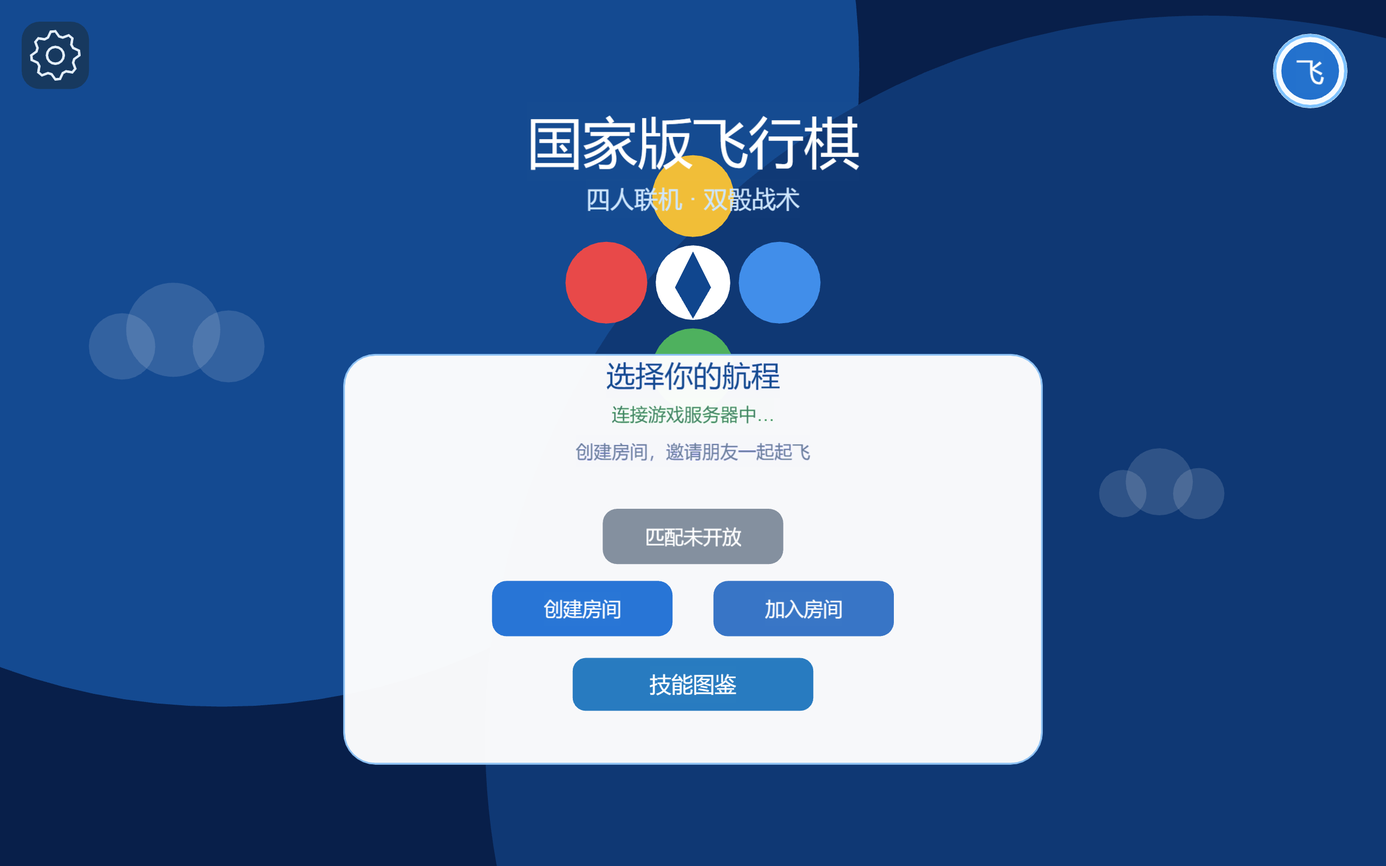
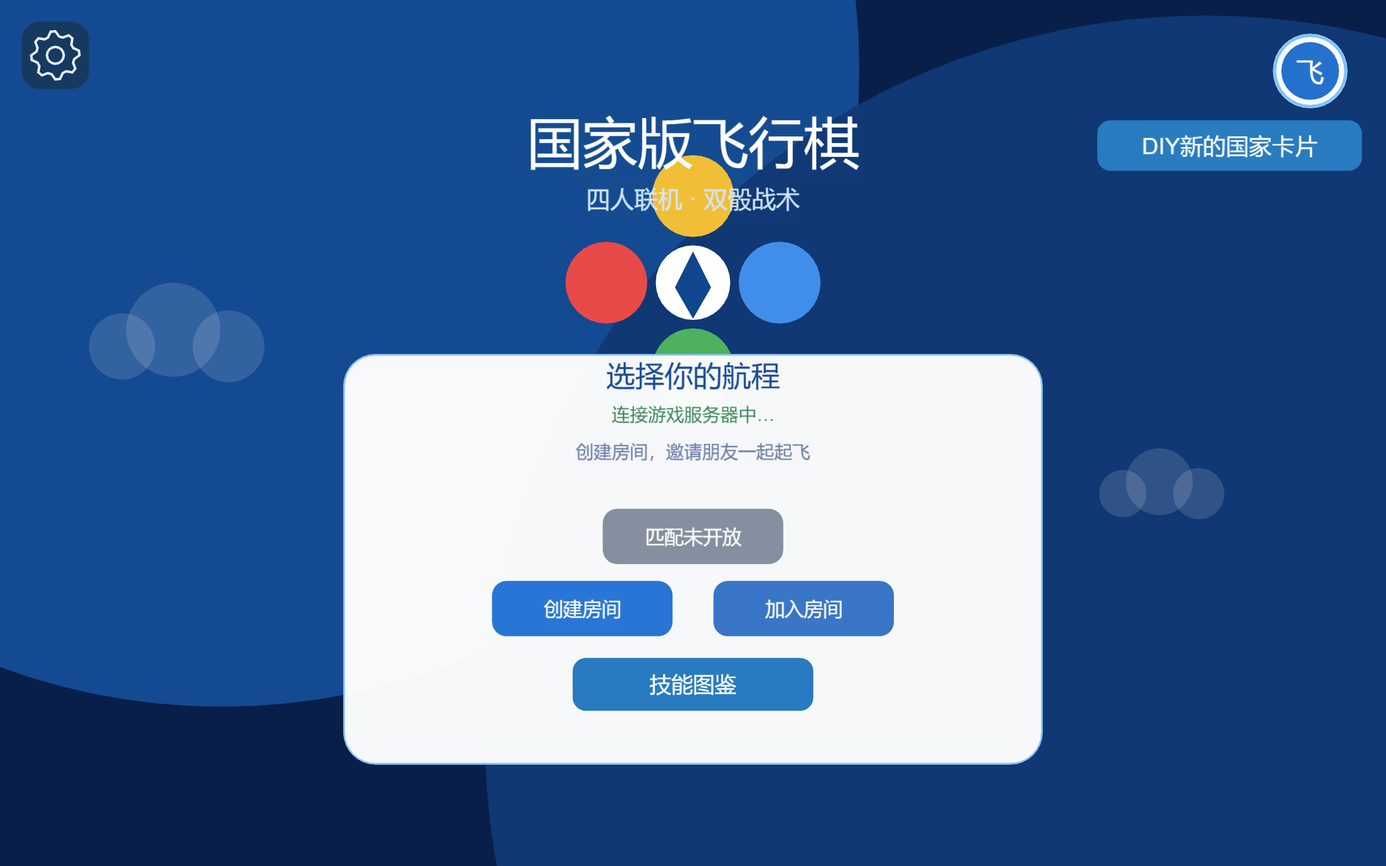
feat: add country skill designer and settings feedback submissions

Changed region(s): [[0.7812, 0.125, 1.0, 0.2188]]

diff --git a/assets/scripts/ui/SubmissionDialog.ts b/assets/scripts/ui/SubmissionDialog.ts
@@ -1,0 +1,185 @@
+import { BlockInputEvents, Button, Color, EditBox, Graphics, Label, Layers, Mask, Node, ScrollView, UITransform, sys, view } from 'cc';
+
+type Kind = 'COUNTRY' | 'FEEDBACK';
+interface Skill { name: string; type: string; trigger: string; description: string; cooldown: string; }
+const TYPES = [['NORMAL', '普通技能'], ['LIMITED', '限定技能'], ['COOLDOWN', 'CD 技能'], ['AWAKENING', '觉醒技能']];
+const blankSkill = (): Skill => ({ name: '', type: 'NORMAL', trigger: '', description: '', cooldown: '' });
+
+/** Cocos UI also works in the mini-game. Keep input nodes alive across close/rotation. */
+export class SubmissionDialog {
+  public readonly root: Node;
+  private readonly card: Node;
+  private readonly inputs = new Map<string, EditBox>();
+  private readonly countryGroup: Node;
+  private readonly feedbackGroup: Node;
+  private readonly notice: Label;
+  private readonly title: Label;
+  private readonly skillIndex: Label;
+  private readonly typeLabel: Label;
+  private readonly typeMenu: Node;
+  private readonly review: Node;
+  private readonly reviewText: Label;
+  private readonly reviewScroll: ScrollView;
+  private readonly sendButton: Button;
+  private readonly reviewStatus: Label;
+  private kind: Kind = 'COUNTRY';
+  private account = '';
+  private skills: Skill[] = [blankSkill()];
+  private index = 0;
+  private pending = false;
+  private sealed = false;
+  private submissionId = '';
+  private submittedDraft: Record<string, unknown> | null = null;
+  private timeout: ReturnType<typeof setTimeout> | undefined;
+
+  public constructor(parent: Node, private readonly send: (data: Record<string, unknown>) => void) {
+    this.root = this.node('SubmissionDialog', parent, 0, 0); this.root.addComponent(BlockInputEvents);
+    this.card = this.node('SubmissionCard', this.root, 640, 650); this.panel(this.card, 640, 650, '#eff5fc');
+    this.title = this.label('SubmissionTitle', this.card, 'DIY新的国家卡片', 0, 286, 510, 38, 28);
+    this.button('CloseSubmission', this.card, '×', 285, 290, 44, () => this.close());
+    this.countryGroup = this.node('CountryForm', this.card, 600, 450);
+    this.input('CountryName', this.countryGroup, '国家名称（必填，30 字以内）', 245, 44, 30);
+    this.input('CountryDescription', this.countryGroup, '国家介绍（可选，300 字以内）', 189, 52, 300, true);
+    this.skillIndex = this.label('SkillIndex', this.countryGroup, '', 0, 136, 170, 34, 21);
+    this.button('PreviousSkill', this.countryGroup, '上一项', -225, 136, 110, () => this.navigate(-1));
+    this.button('NextSkill', this.countryGroup, '下一项', -100, 136, 110, () => this.navigate(1));
+    this.button('AddSkill', this.countryGroup, '+ 技能', 100, 136, 110, () => { if (this.skills.length < 6) { this.save(); this.skills.push(blankSkill()); this.index = this.skills.length - 1; this.renderSkill(); } });
+    this.button('DeleteSkill', this.countryGroup, '删除', 225, 136, 110, () => { if (this.skills.length > 1) { this.skills.splice(this.index, 1); this.index = Math.min(this.index, this.skills.length - 1); this.renderSkill(); this.save(); } });
+    this.input('SkillName', this.countryGroup, '技能名称（必填，30 字以内）', 83, 44, 30);
+    const typeButton = this.button('SkillType', this.countryGroup, '', -170, 31, 220, () => { this.typeMenu.active = !this.typeMenu.active; this.typeMenu.setSiblingIndex(-1); });
+    this.typeLabel = typeButton.node.getComponentInChildren(Label)!;
+    this.label('TypeHint', this.countryGroup, '选择技能类型 ▾', 130, 31, 285, 36, 20).node.on(Node.EventType.TOUCH_END, () => { this.typeMenu.active = !this.typeMenu.active; this.typeMenu.setSiblingIndex(-1); });
+    this.input('SkillTrigger', this.countryGroup, '触发条件（可选，100 字以内）', -21, 44, 100);
+    this.input('SkillCooldown', this.countryGroup, 'CD 规则（例如：每 3 个正常回合一次）', -73, 44, 60);
+    this.input('SkillDescription', this.countryGroup, '技能效果（必填，600 字以内）', -158, 110, 600, true);
+    this.typeMenu = this.node('SkillTypeMenu', this.countryGroup, 230, 190); this.typeMenu.setPosition(-170, -82);
+    this.typeMenu.addComponent(BlockInputEvents); this.panel(this.typeMenu, 230, 190, '#dceafb');
+    TYPES.forEach(([type, name], i) => this.button(`Type-${type}`, this.typeMenu, name, 0, 68 - i * 45, 218, () => {
+      this.skills[this.index].type = type; this.typeMenu.active = false; this.updateType(); this.save();
+    })); this.typeMenu.active = false;
+    this.feedbackGroup = this.node('FeedbackForm', this.card, 600, 480);
+    this.label('FeedbackHint', this.feedbackGroup, '遇到了什么问题？也欢迎提出建议。', 0, 226, 550, 44, 22);
+    this.input('FeedbackContent', this.feedbackGroup, '请描述问题、操作步骤或改进建议（1–3000 字）', 20, 350, 3000, true);
+    this.notice = this.label('SubmissionNotice', this.card, '草稿自动保存在当前设备', 0, -239, 580, 38, 18);
+    this.button('PreviewSubmission', this.card, '预览并提交', 0, -285, 220, () => this.preview());
+    this.review = this.node('SubmissionReview', this.card, 640, 650); this.panel(this.review, 640, 650, '#eff5fc'); this.review.addComponent(BlockInputEvents);
+    this.label('ReviewTitle', this.review, '确认投稿内容', 0, 282, 540, 40, 28);
+    this.label('ReviewRecipient', this.review, '发送至 skillludoadapter@163.com · 附带登录账号', 0, 240, 590, 35, 18);
+    const viewport = this.node('ReviewViewport', this.review, 590, 390); viewport.setPosition(0, 20); viewport.addComponent(Mask);
+    const content = this.node('ReviewContent', viewport, 565, 390); content.getComponent(UITransform)!.setAnchorPoint(0.5, 1); content.setPosition(0, 195);
+    this.reviewText = this.label('ReviewText', content, '', 0, 0, 565, 390, 21);
+    this.reviewText.node.getComponent(UITransform)!.setAnchorPoint(0.5, 1);
+    this.reviewText.horizontalAlign = Label.HorizontalAlign.LEFT; this.reviewText.verticalAlign = Label.VerticalAlign.TOP; this.reviewText.overflow = Label.Overflow.RESIZE_HEIGHT;
+    this.reviewScroll = viewport.addComponent(ScrollView); this.reviewScroll.content = content; this.reviewScroll.horizontal = false;
+    this.reviewStatus = this.label('SubmissionResult', this.review, '', 0, -227, 580, 85, 18);
+    this.button('EditSubmission', this.review, '返回编辑', -160, -287, 160, () => { if (!this.pending) { this.review.active = false; } });
+    this.sendButton = this.button('SendSubmission', this.review, '提交', 40, -287, 150, () => this.submit());
+    this.button('CloseReview', this.review, '关闭', 230, -287, 100, () => this.close());
+    this.review.active = false; this.root.active = false;
+    view.on('canvas-resize', this.resize, this); view.on('design-resolution-changed', this.resize, this);
+  }
+  public open(kind: Kind, accountId: string): void {
+    if (!accountId.startsWith('u_')) return;
+    if (this.pending) { this.root.active = true; this.root.setSiblingIndex(-1); return; }
+    if (this.root.active) this.save();
+    if (this.account !== accountId || this.kind !== kind) {
+      this.account = accountId; this.kind = kind; this.index = 0; this.skills = [blankSkill()];
+      this.inputs.forEach((input) => { input.string = ''; });
+      try {
+        const saved = JSON.parse(sys.localStorage.getItem(this.key) || 'null');
+        if (saved?.draft) {
+          const draft = saved.draft;
+          this.inputs.get('CountryName')!.string = draft.country?.name || '';
+          this.inputs.get('CountryDescription')!.string = draft.country?.description || '';
+          this.inputs.get('FeedbackContent')!.string = draft.content || '';
+          if (draft.country?.skills?.length) this.skills = draft.country.skills.slice(0, 6);
+        }
+        this.submissionId = saved?.id || ''; this.submittedDraft = saved?.submittedDraft || null; this.sealed = !!saved?.sealed;
+      } catch { this.submissionId = ''; this.submittedDraft = null; this.sealed = false; }
+      this.review.active = false;
+      this.reviewStatus.string = '';
+    }
+    this.title.string = kind === 'COUNTRY' ? 'DIY新的国家卡片' : '反馈';
+    this.countryGroup.active = kind === 'COUNTRY'; this.feedbackGroup.active = kind === 'FEEDBACK';
+    this.root.active = true; this.root.setSiblingIndex(-1); this.renderSkill(); this.resize();
+  }
+  public close(): void { this.save(); this.root.active = false; }
+  public destroy(): void { clearTimeout(this.timeout); view.off('canvas-resize', this.resize, this); view.off('design-resolution-changed', this.resize, this); this.root.destroy(); }
+  public result(data: { id?: string; status?: string; message: string }): void {
+    if (data.id && data.id !== this.submissionId) return;
+    clearTimeout(this.timeout); this.pending = false;
+    this.sealed = data.status !== 'ERROR'; this.sendButton.interactable = !this.sealed;
+    this.reviewStatus.string = `${data.message}${data.id ? `\n编号：${data.id}` : ''}`; this.save();
+  }
+  private get key(): string { return `skillLudo.submission.${this.account}.${this.kind}`; }
+  private navigate(delta: number): void { this.save(); this.index = Math.max(0, Math.min(this.skills.length - 1, this.index + delta)); this.renderSkill(); }
+  private renderSkill(): void {
+    const skill = this.skills[this.index];
+    for (const [name, key] of [['SkillName', 'name'], ['SkillTrigger', 'trigger'], ['SkillDescription', 'description'], ['SkillCooldown', 'cooldown']]) this.inputs.get(name)!.string = skill[key as keyof Skill] || '';
+    this.skillIndex.string = `${this.index + 1} / ${this.skills.length}`; this.updateType();
+  }
+  private updateType(): void {
+    this.typeLabel.string = TYPES.find(([type]) => type === this.skills[this.index].type)?.[1] || '普通技能';
+    this.inputs.get('SkillCooldown')!.node.active = this.skills[this.index].type === 'COOLDOWN';
+  }
+  private draft(): Record<string, unknown> {
+    const skill = this.skills[this.index];
+    skill.name = this.inputs.get('SkillName')!.string.trim(); skill.trigger = this.inputs.get('SkillTrigger')!.string.trim();
+    skill.description = this.inputs.get('SkillDescription')!.string.trim(); skill.cooldown = skill.type === 'COOLDOWN' ? this.inputs.get('SkillCooldown')!.string.trim() : '';
+    return this.kind === 'COUNTRY' ? { kind: this.kind, country: { name: this.inputs.get('CountryName')!.string.trim(), description: this.inputs.get('CountryDescription')!.string.trim(), skills: this.skills.map((s) => ({ ...s })) } }
+      : { kind: this.kind, content: this.inputs.get('FeedbackContent')!.string.trim() };
+  }
+  private save(): void {
+    if (!this.account) return;
+    try { sys.localStorage.setItem(this.key, JSON.stringify({ draft: this.draft(), id: this.submissionId, submittedDraft: this.submittedDraft, sealed: this.sealed })); } catch { this.notice.string = '设备无法保存草稿，请提交前保留内容'; }
+  }
+  private preview(): void {
+    this.save(); const draft = this.draft();
+    if (encodeURIComponent(JSON.stringify(draft)).replace(/%[A-F\d]{2}/gi, 'x').length > 12000) { this.notice.string = '内容过长，请将整份投稿控制在约 3500 个汉字以内'; return; }
+    const country = draft.country as { name: string; description: string; skills: Skill[] } | undefined;
+    if (country ? !country.name || country.skills.some((s) => !s.name || !s.description || (s.type === 'COOLDOWN' && !s.cooldown)) : !draft.content) { this.notice.string = '请填写国家名称、每项技能名称和效果；CD 技能需填写冷却规则'; if (!country) this.notice.string = '请填写反馈内容'; return; }
+    // A changed draft is a new submission. Reopening/retrying the same draft
+    // keeps its ID across reconnects, so lost acknowledgements never duplicate mail.
+    if (JSON.stringify(draft) !== JSON.stringify(this.submittedDraft)) {
+      this.submissionId = `s_${Date.now().toString(36)}_${Math.random().toString(36).slice(2, 12)}`;
+      this.submittedDraft = draft; this.sealed = false; this.reviewStatus.string = '';
+    }
+    this.sendButton.interactable = !this.pending && !this.sealed;
+    if (this.sealed && !this.reviewStatus.string) this.reviewStatus.string = '该内容已有提交记录；如需修改，请返回编辑。';
+    this.reviewText.string = country ? `${country.name}\n${country.description}\n\n${country.skills.map((s, i) => `${i + 1}. ${s.name} · ${TYPES.find(([t]) => t === s.type)?.[1]}\n触发：${s.trigger || '见效果描述'}\n效果：${s.description}${s.cooldown ? `\n冷却：${s.cooldown}` : ''}`).join('\n\n')}` : String(draft.content);
+    this.review.active = true; this.reviewText.updateRenderData(true);
+    this.reviewScroll.content!.getComponent(UITransform)!.height = Math.max(390, this.reviewText.node.getComponent(UITransform)!.height);
+    this.reviewScroll.scrollToTop(0); this.save();
+  }
+  private submit(): void {
+    if (this.pending || this.sealed || !this.submittedDraft) return;
+    this.pending = true; this.sendButton.interactable = false; this.reviewStatus.string = '正在保存并发送，请稍候…'; this.save();
+    this.timeout = setTimeout(() => this.result({ status: 'ERROR', message: '暂未收到确认；可再次点击提交查询，同一编号不会重复发信' }), 45000);
+    this.send({ id: this.submissionId, draft: this.submittedDraft });
+  }
+  private resize(): void {
+    const size = view.getVisibleSize(); this.root.getComponent(UITransform)!.setContentSize(size);
+    const shade = this.root.getComponent(Graphics) || this.root.addComponent(Graphics); shade.clear(); shade.fillColor = new Color(10, 28, 50, 175); shade.rect(-size.width / 2, -size.height / 2, size.width, size.height); shade.fill();
+    const scale = Math.min(1.2, (size.width - 28) / 640, (size.height - 28) / 650); this.card.setScale(scale, scale, 1);
+  }
+  private node(name: string, parent: Node, width: number, height: number): Node { const node = new Node(name); node.layer = Layers.Enum.UI_2D; node.setParent(parent); node.addComponent(UITransform).setContentSize(width, height); return node; }
+  private panel(node: Node, width: number, height: number, color: string): void { const g = node.addComponent(Graphics); g.fillColor = new Color(color); g.roundRect(-width / 2, -height / 2, width, height, 12); g.fill(); }
+  private label(name: string, parent: Node, value: string, x: number, y: number, width: number, height: number, font = 21): Label {
+    const node = this.node(name, parent, width, height); node.setPosition(x, y); const label = node.addComponent(Label);
+    label.string = value; label.fontSize = font; label.lineHeight = font + 6; label.color = new Color('#284868'); label.horizontalAlign = Label.HorizontalAlign.CENTER; label.verticalAlign = Label.VerticalAlign.CENTER; label.overflow = Label.Overflow.SHRINK; return label;
+  }
+  private button(name: string, parent: Node, text: string, x: number, y: number, width: number, action: () => void): Button {
+    const node = this.node(name, parent, width, 40); node.setPosition(x, y); this.panel(node, width, 40, '#d1e4f6'); this.label(`${name}Text`, node, text, 0, 0, width - 8, 38);
+    const button = node.addComponent(Button); node.on(Button.EventType.CLICK, action); return button;
+  }
+  private input(name: string, parent: Node, hint: string, y: number, height: number, max: number, multiline = false): EditBox {
+    const node = this.node(name, parent, 570, height); node.active = false; node.setPosition(0, y); this.panel(node, 570, height, '#ffffff');
+    const text = this.label(`${name}Text`, node, '', 0, 0, 548, height - 8, 22), placeholder = this.label(`${name}Hint`, node, '', 0, 0, 548, height - 8, 20);
+    for (const label of [text, placeholder]) { label.node.getComponent(UITransform)!.setAnchorPoint(0, 1); label.horizontalAlign = Label.HorizontalAlign.LEFT; label.verticalAlign = multiline ? Label.VerticalAlign.TOP : Label.VerticalAlign.CENTER; label.overflow = Label.Overflow.CLAMP; }
+    placeholder.color = new Color('#8398ad');
+    const input = node.addComponent(EditBox); input.inputMode = multiline ? EditBox.InputMode.ANY : EditBox.InputMode.SINGLE_LINE; input.inputFlag = EditBox.InputFlag.DEFAULT;
+    input.textLabel = text; input.placeholderLabel = placeholder; input.placeholder = hint; input.maxLength = max;
+    ['TEXT_LABEL', 'PLACEHOLDER_LABEL'].forEach((key) => node.getChildByName(key)?.destroy()); node.active = true;
+    node.on(EditBox.EventType.TEXT_CHANGED, () => this.save()); this.inputs.set(name, input); return input;
+  }
+}

diff --git a/assets/scripts/ui/GameUI.ts b/assets/scripts/ui/GameUI.ts
@@ -7,6 +7,7 @@ import { SkillDialogs, type SkillInput } from './SkillDialogs';
 import { FACTION_NAMES } from '../game/SkillCatalog';
 import { MatchOverlays } from './MatchOverlays';
 import { SettingsPanel } from './SettingsPanel';
+import { SubmissionDialog } from './SubmissionDialog';
 
 const { ccclass, property } = _decorator;
 type Screen = 'HOME' | 'AUTH' | 'ROOM' | 'GAME';
@@ -33,6 +34,7 @@ export class GameUI extends Component {
   private skills: SkillDialogs | null = null;
   private overlays: MatchOverlays | null = null;
   private settings: SettingsPanel | null = null;
+  private submissions: SubmissionDialog | null = null;
   private serverNow = () => Date.now();
   private presentationBusy = false;
   private requestPending = false;
@@ -83,13 +85,20 @@ export class GameUI extends Component {
     this.installWebInputStyle();
     if (!this.statusLabel || !this.roomLabel || !this.rollButton || !this.readyButton || !this.startButton) this.buildRuntimeUi();
     this.showAuthPage();
-    this.settings = new SettingsPanel(this.getRuntimeRoot(), (enabled) => this.overlays?.setChatToastsEnabled(enabled));
+    this.settings = new SettingsPanel(this.getRuntimeRoot(), (enabled) => this.overlays?.setChatToastsEnabled(enabled), () => this.showSubmission('FEEDBACK'));
     view.on('canvas-resize', this.scheduleResize, this);
     view.on('design-resolution-changed', this.scheduleResize, this);
     this.scheduleResize();
   }
 
   public showHome(): void { this.setScreen('HOME'); }
+  public showSubmission(kind: 'COUNTRY' | 'FEEDBACK'): void {
+    if (!this.accountProfile?.playerId.startsWith('u_')) { this.showError('请先登录注册账号，再提交设计或反馈'); return; }
+    this.closeAccountDrawer();
+    this.submissions ??= new SubmissionDialog(this.getRuntimeRoot(), (data) => this.node.emit('submission-send', data));
+    this.submissions.open(kind, this.accountProfile.playerId);
+  }
+  public showSubmissionResult(data: { id?: string; status?: string; message: string }): void { this.submissions?.result(data); }
   public setActiveGames(games: ActiveGameSummary[]): void {
     this.activeGames = [...games];
     this.renderActiveGames();
@@ -103,6 +112,7 @@ export class GameUI extends Component {
   }
   public onDestroy(): void {
     this.matchHud?.destroy(); this.skills?.destroy(); this.overlays?.destroy(); this.settings?.destroy();
+    this.submissions?.destroy();
     view.off('canvas-resize', this.scheduleResize, this); view.off('design-resolution-changed', this.scheduleResize, this);
   }
   private scheduleResize(): void {
@@ -596,6 +606,7 @@ export class GameUI extends Component {
     graphics.fillColor = new Color(35, 113, 205); graphics.circle(0, 0, diameter / 2 - 7); graphics.fill();
     this.homeAvatarInitial = this.addLabel(node, 'AccountAvatarInitial', '我', Vec3.ZERO, diameter - 10, diameter - 10, portrait ? 28 : 23, Color.WHITE);
     node.on(Node.EventType.TOUCH_END, () => this.showAccountDrawer());
+    this.createModalButton(parent, 'DIY新的国家卡片', new Vec3(size.width / 2 - 130, node.position.y - diameter / 2 - 31), new Color('#287bc0'), () => this.showSubmission('COUNTRY'), 220, 42, 19);
     this.updateHomeAvatar();
   }
 

diff --git a/assets/scripts/game/GameController.ts b/assets/scripts/game/GameController.ts
@@ -69,6 +69,7 @@ export class GameController extends Component {
     this.gameUI?.node.on('join-room', this.onClickJoinRoom, this);
     this.gameUI?.node.on('account-action', this.handleAccountAction, this);
     this.gameUI?.node.on('chat-send', this.handleChatSend, this);
+    this.gameUI?.node.on('submission-send', this.handleSubmission, this);
     this.gameUI?.node.on('debug-roll', this.handleDebugRoll, this);
     this.boardController?.node.on('calibration-save', this.handleCalibrationSave, this);
     this.gameUI?.node.on('rejoin-game', this.handleRejoinGame, this);
@@ -97,6 +98,7 @@ export class GameController extends Component {
     this.gameUI?.node.off('join-room', this.onClickJoinRoom, this);
     this.gameUI?.node.off('account-action', this.handleAccountAction, this);
     this.gameUI?.node.off('chat-send', this.handleChatSend, this);
+    this.gameUI?.node.off('submission-send', this.handleSubmission, this);
     this.gameUI?.node.off('debug-roll', this.handleDebugRoll, this);
     this.boardController?.node.off('calibration-save', this.handleCalibrationSave, this);
     this.gameUI?.node.off('rejoin-game', this.handleRejoinGame, this);
@@ -281,6 +283,17 @@ export class GameController extends Component {
       this.gameUI?.setActiveGames(data.games ?? []);
     });
     this.network.on('ERROR', (message) => this.showError(message));
+    this.network.on('SUBMISSION_RESULT', (message) => {
+      if (message.requestId === this.submissionRequest) {
+        this.gameUI?.showSubmissionResult(message.data as { id?: string; status?: string; message: string });
+      }
+    });
+  }
+
+  private submissionRequest = '';
+  private handleSubmission(data: Record<string, unknown>): void {
+    try { this.submissionRequest = this.network.send('SUBMIT_CREATION', data); }
+    catch { this.gameUI?.showSubmissionResult({ status: 'ERROR', message: '网络未连接，草稿已保留，请重连后重试' }); }
   }
 
   private handleAccountAction(type: 'LOGIN' | 'REGISTER', data: AccountActionData): void {

diff --git a/assets/scripts/ui/SettingsPanel.ts b/assets/scripts/ui/SettingsPanel.ts
@@ -12,7 +12,7 @@ export class SettingsPanel {
   private stateLabel: Label | null = null;
   private scale = 1;
 
-  public constructor(parent: Node, private readonly changed: (enabled: boolean) => void) {
+  public constructor(parent: Node, private readonly changed: (enabled: boolean) => void, private readonly feedback: () => void = () => {}) {
     try { this.chatToastsEnabled = sys.localStorage.getItem(CHAT_TOASTS_KEY) !== 'false'; } catch { /* Use the default when storage is unavailable. */ }
     this.root = this.node('GlobalSettings', parent, 0, 0);
     this.gear = this.node('SettingsGear', this.root, 60, 60);
@@ -60,7 +60,10 @@ export class SettingsPanel {
     close.addComponent(Button); close.on(Node.EventType.TOUCH_END, () => this.close());
     this.label(card, 'ChatToastsTitle', '聊天消息浮窗', -83, 18, 240, 38, 22, '#29496c');
     this.label(card, 'ChatToastsHint', '显示新收到的聊天与系统消息', -83, -18, 254, 34, 15, '#647d96');
-    this.label(card, 'SettingsHint', '关闭后，仍可在聊天窗口查看完整消息', 0, -98, 440, 38, 17, '#647d96');
+    this.label(card, 'SettingsHint', '关闭后仍可在聊天窗口查看完整消息', -48, -98, 340, 38, 16, '#647d96');
+    const feedback = this.node('FeedbackButton', card, 85 * s, 40 * s); feedback.setPosition(178 * s, -98 * s);
+    this.label(feedback, 'FeedbackText', '反馈', 0, 0, 80, 36, 20, '#287bc0');
+    feedback.addComponent(Button); feedback.on(Button.EventType.CLICK, () => { this.close(); this.feedback(); });
     this.toggle = this.node('ChatToastsToggle', card, 110 * s, 60 * s); this.toggle.setPosition(155 * s, 14 * s);
     this.toggle.addComponent(Button); this.toggle.addComponent(Graphics);
     this.stateLabel = this.label(card, 'ChatToastsState', '', 155, -37, 100, 30, 17, '#486b8d');

diff --git a/assets/scripts/protocol/GameProtocol.ts b/assets/scripts/protocol/GameProtocol.ts
@@ -16,7 +16,7 @@ export interface ClientMessage<T = unknown> {
 
 export type ClientMessageType =
   | 'AUTH' | 'REGISTER' | 'LOGIN' | 'CREATE_ROOM' | 'JOIN_ROOM' | 'LEAVE_ROOM'
-  | 'QUICK_MATCH' | 'CHAT_SEND'
+  | 'QUICK_MATCH' | 'CHAT_SEND' | 'SUBMIT_CREATION'
   | 'READY' | 'CANCEL_READY' | 'START_GAME' | 'SET_COLOR_PREFERENCE'
   | 'ROLL_DICE' | 'SELECT_DIE' | 'SELECT_PIECE' | 'COMMIT_MOVE' | 'USE_SKILL' | 'PING' | 'RECONNECT'
   | 'CALIBRATION_OPEN' | 'CALIBRATION_SAVE'
@@ -30,7 +30,7 @@ export interface ServerMessage<T = unknown> {
 }
 
 export type ServerMessageType =
-  | 'AUTH_OK' | 'ROOM_CREATED' | 'ROOM_STATE'
+  | 'AUTH_OK' | 'ROOM_CREATED' | 'ROOM_STATE' | 'SUBMISSION_RESULT'
   | 'PLAYER_JOINED' | 'PLAYER_LEFT' | 'PLAYER_READY_CHANGED'
   | 'CHAT_MESSAGE' | 'CHAT_HISTORY' | 'SYSTEM_MESSAGE'
   | 'GAME_START' | 'TURN_START' | 'DICE_RESULT' | 'DIE_SELECTED' | 'MOVABLE_PIECES'

diff --git a/docs/国家投稿与反馈.md b/docs/国家投稿与反馈.md
@@ -1,0 +1,11 @@
+# 国家投稿与反馈
+
+主页头像下新增“DIY新的国家卡片”，设置内新增“反馈”。两者需要登录注册账号。国家可编辑 1–6 个技能，用下拉框选择普通、限定、CD、觉醒；CD 类型额外填写冷却规则。其余内容均为文字，提交前可预览所有技能。
+
+服务端记录认证账号，并将内容整理为 JSON 附件，发往 `skillludoadapter@163.com`。国家邮件主题为 `<国家名称>技能设计`。提交成功表示邮件服务器已接收；失败或待确认时，内容仍有数据库记录，请保留编号。投稿用于后续开发，当前不会自动成为可用阵营。
+
+草稿按账号和表单类型保存在当前设备，关闭窗口或切换横竖屏不丢失输入。同一内容重试保持相同提交编号，不重复发信；更改内容后预览会生成新编号。窗口使用 Cocos 控件，可参与微信小游戏构建。
+
+回归命令：`npm run verify:submissions`（需本地 7459 Web 预览与 3101 测试后端）。测试用真实鼠标、触摸、键盘输入，覆盖桌面/DPR3 手机、下拉框、两项技能切换、旋转、预览、重复点击、同编号重试与设置反馈。提交被拦截，不发送测试邮件。结果和截图位于 `docs/verification/submission-*`。
+
+服务端部署、JSON 格式、错误状态、限流和 SMTP 环境配置见后端仓库 `docs/国家投稿与反馈.md`。无需在前端或 GitHub Secret 填写邮箱授权码。

diff --git a/docs/第三轮交付记录.md b/docs/第三轮交付记录.md
@@ -5,3 +5,7 @@
 合法移动/技能目标的点击区域优先于同格其他棋子，修复锁定法国挡住攻击方的点击。动画支持跳跃起跳格击落，保持同一目标只播放一次击落。
 
 验证：类型检查、Web 构建和 `npm run verify:skills` 通过。新增三种攻击阵营的真实 Canvas 点击回归，主动改变重叠点击区域顺序，验证选中己方棋子并发送正确 COMMIT_MOVE。既有英国交换、法国反应、中国修改、美国核弹仍通过。
+
+## 阶段二 · 2026-09-13
+
+新增国家技能编辑、预览、投稿与设置内反馈。头像下入口不占用原技能图鉴位置。草稿按账号保存，输入控件在旋转和关闭时保留；重复提交沿用编号。22 项单元测试通过，桌面及手机真实输入/旋转/重试回归通过。详情见 `国家投稿与反馈.md`。
